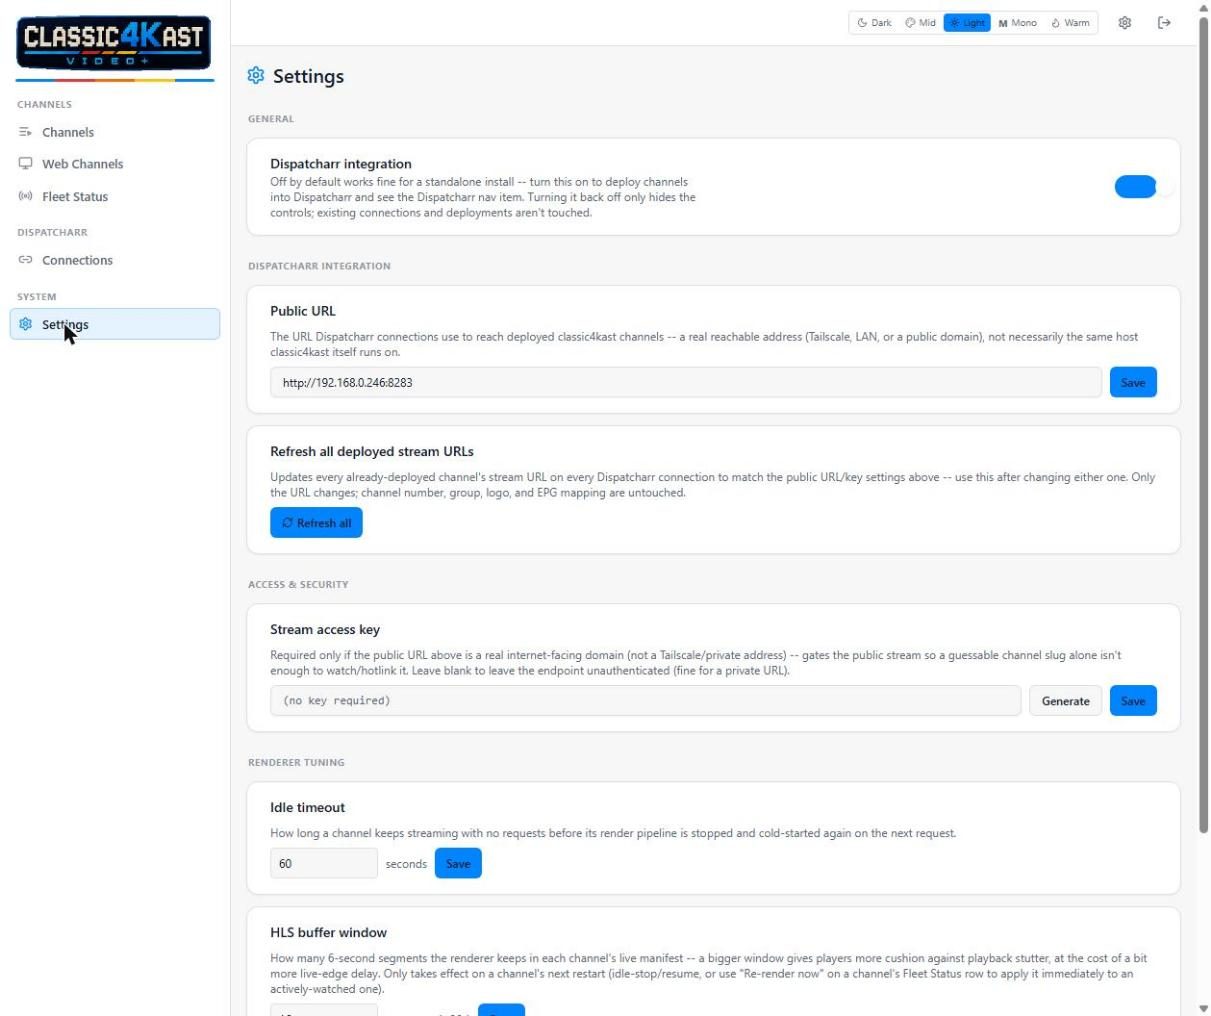
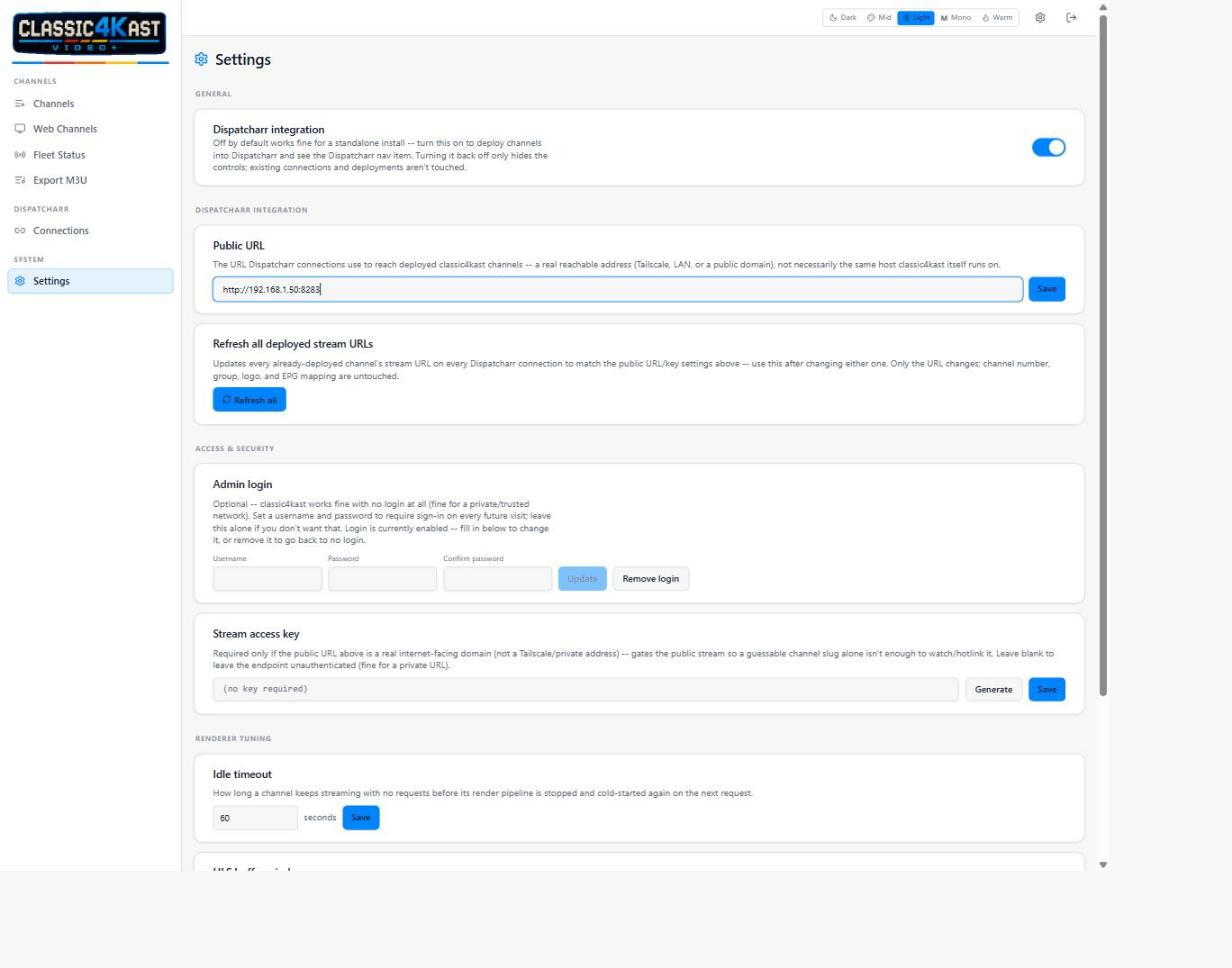
Document admin login, channel number, and M3U export; refresh CURRENT.md  USERGUIDE.md: real screenshots + a new section 12 for M3U export (including how to add it as a live Standard M3U source in Dispatcharr), updated first-run/deploy sections, a troubleshooting entry for "chrome_crashpad_handler: 

diff --git a/USERGUIDE.md b/USERGUIDE.md
@@ -17,6 +17,7 @@ for the concise technical reference version.
 9. [Fleet status & troubleshooting stutter](#9-fleet-status--troubleshooting-stutter)
 10. [Security](#10-security)
 11. [Web Channels (websites & Grafana dashboards)](#11-web-channels-websites--grafana-dashboards)
+12. [Exporting an M3U playlist](#12-exporting-an-m3u-playlist)
 
 ## 1. What it does
 
@@ -68,10 +69,15 @@ To build from source instead of pulling the published image, add a
 
 ## 4. First-run setup
 
-Open `http://<host>:8283`. Since no admin account exists yet, you'll be
-dropped straight into the app rather than a login screen — go to
-**Settings** and set an admin username/password. Every future visit will
-require login.
+Open `http://<host>:8283`. You'll see a one-time prompt to create an admin
+username/password — this is entirely optional, so **Skip for now** is fine
+on a private/trusted network. If you do set one, every future visit will
+require login; you can add, change, or remove it anytime later from
+**Settings → Access & Security**.
+
+<p align="center">
+  <img src="docs/screenshots/first-run-setup.jpg" alt="First-run admin login prompt, with Create admin login and Skip for now buttons" width="60%" />
+</p>
 
 ## 5. Creating your first channel
 
@@ -133,11 +139,19 @@ From the Channels list, click the deploy icon on a channel:
 
 - **Single instance**: pick a connection, a channel group (only groups that
   already contain real channels are shown — Dispatcharr's stream-import-only
-  groups are filtered out automatically), a channel name, and a stream
-  profile. Leave the stream profile on its default (**Redirect**) unless you
-  have a specific reason not to — see [section 9](#9-fleet-status--troubleshooting-stutter).
+  groups are filtered out automatically), a channel name, a **channel
+  number** (leave blank to auto-assign the group's next free number, or set
+  one to pin a specific slot — Dispatcharr rejects it if that number's
+  already taken in the group), and a stream profile. Leave the stream
+  profile on its default (**Redirect**) unless you have a specific reason
+  not to — see [section 9](#9-fleet-status--troubleshooting-stutter).
 - **Multiple instances**: check every connection you want to deploy to at
-  once; group and profile are matched by name across all of them.
+  once; group, profile, and channel number are applied identically across
+  all of them.
+
+<p align="center">
+  <img src="docs/screenshots/deploy-channel-number.png" alt="Deploy modal showing the Channel number field" width="50%" />
+</p>
 
 Deployed channels show up in the channel's deploy list with per-deployment
 refresh/remove actions, and in **Fleet Status** for render health.
@@ -174,8 +188,11 @@ usually the fix, not a Classic4Kast Video+ bug.
 
 ## 10. Security
 
-- Set an admin password on first run — don't leave the instance open on a
-  network you don't control.
+- Set an admin login (first-run prompt, or **Settings → Access & Security**
+  anytime after) if this instance is reachable from a network you don't
+  fully control — it's opt-in and can be skipped, but skipping leaves every
+  management action (channels, deploys, settings) open to anyone who can
+  reach the app.
 - Dispatcharr API tokens are encrypted at rest.
 - If you're exposing Classic4Kast Video+'s stream output beyond your own network, set
   a **stream key** (Settings → Stream Key) — it's baked into the deployed
@@ -301,3 +318,55 @@ A couple of things worth knowing:
   this generically across arbitrary sites.
 - **Clear** removes a captured session (shown once one exists), forcing a
   fresh login next time.
+
+### "Failed to launch the browser process" (read-only root filesystem)
+
+Website channel capture (and the **Log in** flow above) both drive a
+shared headless Chromium instance. If it fails to start with logs like:
+
+```
+[manager][<slug>] capture start failed: Failed to launch the browser process!
+chrome_crashpad_handler: --database is required
+```
+
+Chromium's crash handler is trying to write its database/cache under the
+default XDG paths in `$HOME` and can't — this shows up when the container
+runs with a read-only root filesystem (a common hardening setting in
+Kubernetes, Portainer, or a hand-hardened Compose file; not the default in
+the shipped `docker-compose.yml`). Fix it by pointing those paths at a
+writable location instead, e.g. in the container's `environment:`:
+
+```yaml
+XDG_CONFIG_HOME: /tmp
+XDG_CACHE_HOME: /tmp
+```
+
+`/tmp` is writable even under `read_only: true` (Docker and Kubernetes
+both give it its own tmpfs by default). This has fixed the identical
+symptom on more than one read-only-root deployment so far.
+
+## 12. Exporting an M3U playlist
+
+A standalone alternative to Dispatcharr deploy: go to **Export M3U**, check
+any mix of weather and web channels, and either download a plain `.m3u8`
+file (for VLC, or to import as a one-time upload into Dispatcharr/Threadfin)
+or copy the generated **Playlist URL** to add as a live M3U *source* in
+Dispatcharr, Threadfin, or Jellyfin — that URL is fetched directly by those
+tools on their own schedule, so it always reflects your current channel
+selection with no re-upload needed.
+
+<p align="center">
+  <img src="docs/screenshots/export-m3u.jpg" alt="Export M3U page with weather and web channel checklists" width="80%" />
+</p>
+
+It reuses the exact same **Public URL** (and **stream key**, if set) as
+Dispatcharr's own Redirect-profile deploy — see [section 10](#10-security).
+If you haven't set a stream key and your Public URL is a real
+internet-facing domain (not a private/Tailscale address), the page warns
+you before you hand out a playlist that anyone could watch.
+
+**Adding it to Dispatcharr as a live source:** M3U & EPG Manager → Add M3U →
+Account Type **Standard** → paste the Playlist URL → save, then open the
+account's **Groups** tab and enable **Auto Channel Sync** on the group your
+channels landed in (they'll all be under one group unless you're mixing in
+other real M3U sources with their own `group-title`s).

diff --git a/README.md b/README.md
@@ -20,7 +20,9 @@ the border.</em></p>
 Dispatcharr integration is optional. Classic4Kast Video+ runs standalone with zero
 Dispatcharr connections configured; when you do add one (or several — same
 host or remote), it deploys real Dispatcharr channels into existing channel
-groups, not raw stream-import groups.
+groups, not raw stream-import groups. Prefer a plain M3U instead? Export a
+playlist (or a live, pollable M3U source URL) for Dispatcharr, Threadfin,
+Jellyfin, or VLC without touching Dispatcharr's deploy flow at all.
 
 > **New here?** See [USERGUIDE.md](USERGUIDE.md) for a full walkthrough —
 > install, first channel, Dispatcharr wiring, day-to-day use. This README is
@@ -54,7 +56,8 @@ one image and one `docker compose up`:
   (cloud SSO/MFA included) are supported via an interactive session
   capture — see [USERGUIDE.md § 11](USERGUIDE.md#logging-into-gated-pages-session-capture).
 - **`web`** — the admin UI and control plane: channel configuration (both
-  kinds), Dispatcharr connection management, and deploy/undeploy. Both
+  kinds), Dispatcharr connection management, deploy/undeploy, and M3U
+  playlist export. Both
   renderers poll `web` for their channel lists and report render results
   back over two independent token-authed API contracts; `web` is the only
   process with a published port.
@@ -78,8 +81,10 @@ and persists a random one to its data volume on first boot. Only pass
 `AGENT_TOKEN=<value>` in the environment if you specifically need to pin it
 to a known value.
 
-Open `http://<host>:8283`, set an admin username/password on first load, and
-create your first channel.
+Open `http://<host>:8283` — you'll get a one-time, skippable prompt to set
+an admin username/password (fully optional on a private/trusted network;
+add, change, or remove it anytime later from Settings) — then create your
+first channel.
 
 <p align="center">
   <img src="docs/screenshots/channels-list.jpg" alt="Channels list in the admin UI" width="80%" />
